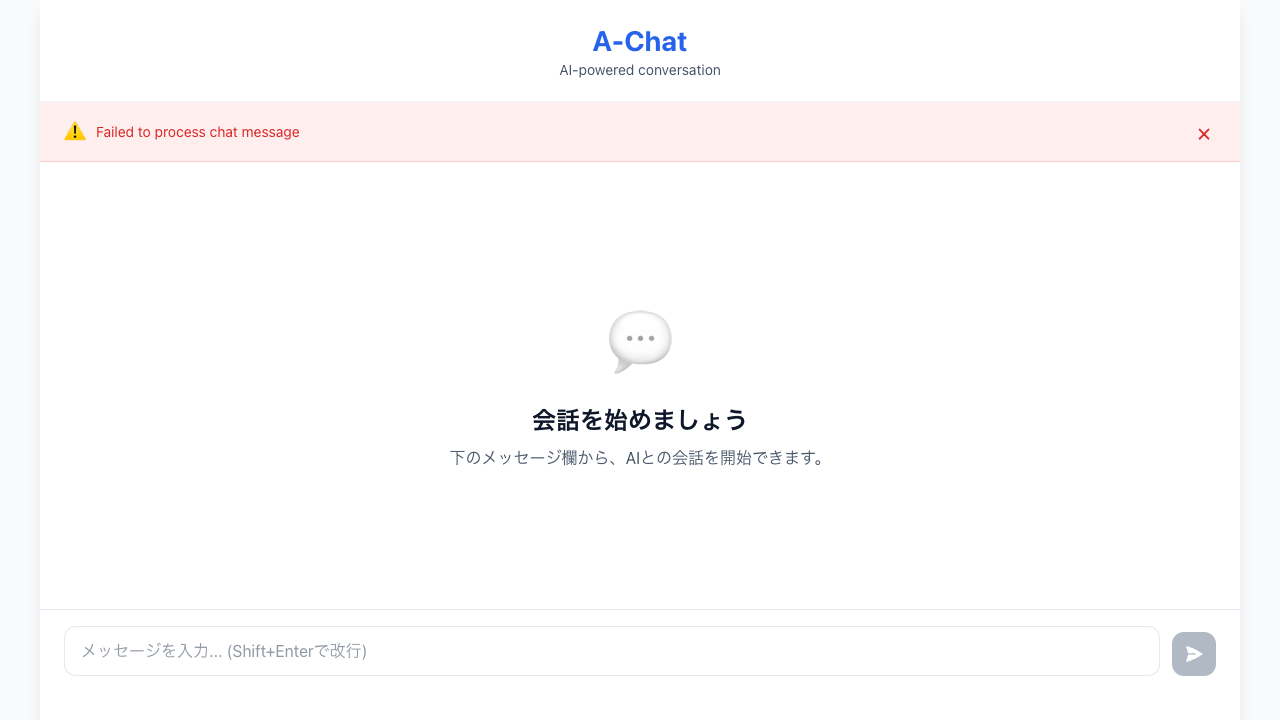
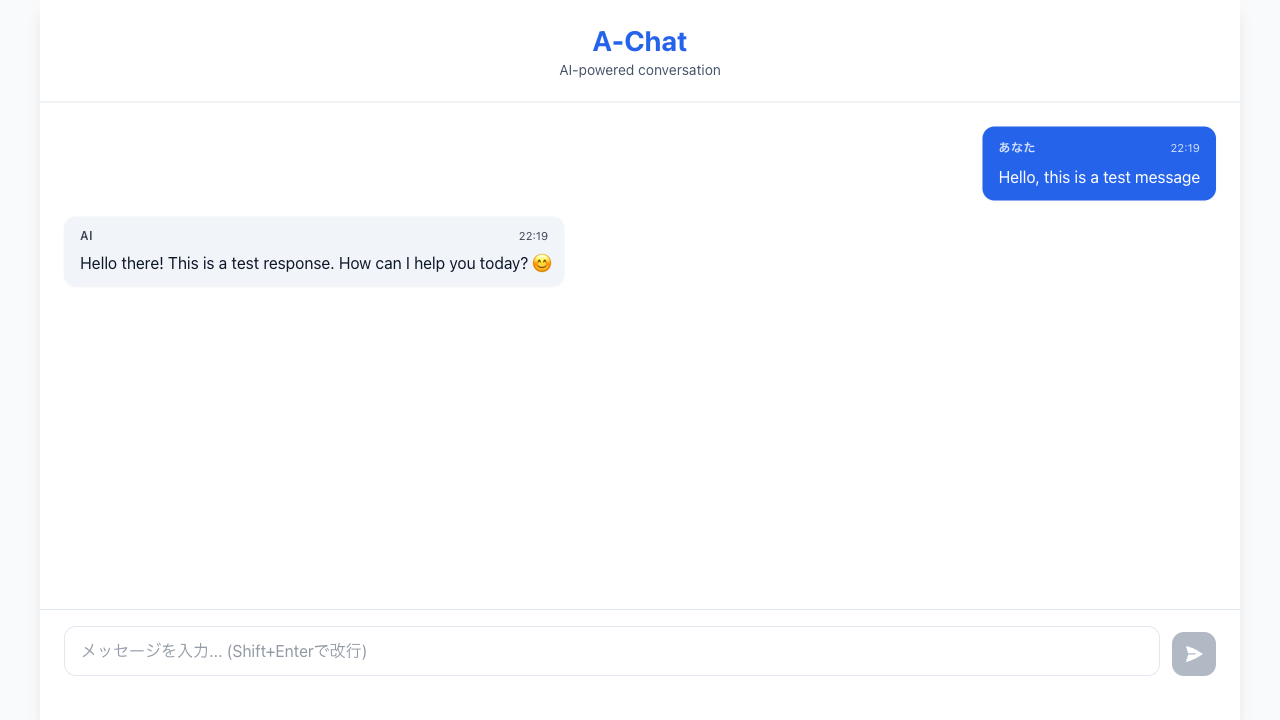
Add test files and final improvements

diff --git a/test-final.js b/test-final.js
@@ -1,0 +1,87 @@
+const { chromium } = require('playwright');
+
+(async () => {
+  const browser = await chromium.launch({ headless: true });
+  const page = await browser.newPage();
+  
+  let testPassed = true;
+  const errors = [];
+  
+  try {
+    console.log('=== Final Chat Test ===');
+    console.log('1. Accessing application...');
+    await page.goto('https://a-chat-173601101972.asia-northeast1.run.app', { waitUntil: 'networkidle', timeout: 30000 });
+    await page.waitForTimeout(3000);
+    
+    // Check for initial error
+    const initialError = await page.locator('[class*="error"]').first().textContent().catch(() => null);
+    if (initialError && initialError.includes('セッション')) {
+      errors.push('Initial session error: ' + initialError);
+      testPassed = false;
+    }
+    
+    console.log('2. Sending test message...');
+    const input = await page.locator('input[type="text"], textarea, [placeholder*="メッセージ"]').first();
+    if (await input.count() === 0) {
+      errors.push('Input field not found');
+      testPassed = false;
+    } else {
+      await input.fill('こんにちは、これはテストです');
+      await page.waitForTimeout(1000);
+      
+      const sendButton = await page.locator('button[type="submit"], button:has-text("送信")').first();
+      if (await sendButton.count() > 0) {
+        await sendButton.click();
+      } else {
+        await input.press('Enter');
+      }
+      
+      console.log('3. Waiting for AI response...');
+      await page.waitForTimeout(10000);
+      
+      // Check for error after sending
+      const errorAfterSend = await page.locator('[class*="error"]').first().textContent().catch(() => null);
+      if (errorAfterSend) {
+        errors.push('Error after sending: ' + errorAfterSend);
+        testPassed = false;
+      }
+      
+      // Check for assistant message
+      const messages = await page.locator('[class*="message"], [class*="Message"]').all();
+      const messageTexts = await Promise.all(messages.map(m => m.textContent().catch(() => '')));
+      const hasAssistantResponse = messageTexts.some(text => 
+        text && !text.includes('こんにちは、これはテストです') && text.length > 20
+      );
+      
+      if (!hasAssistantResponse) {
+        errors.push('No assistant response found');
+        testPassed = false;
+      }
+      
+      console.log('4. Messages found:', messages.length);
+      console.log('5. Has assistant response:', hasAssistantResponse);
+    }
+    
+    await page.screenshot({ path: 'final-test-result.png' });
+    
+    console.log('\n=== Test Results ===');
+    if (testPassed && errors.length === 0) {
+      console.log('✅ ALL TESTS PASSED');
+      console.log('✅ No errors detected');
+      console.log('✅ Chat functionality working correctly');
+    } else {
+      console.log('❌ TESTS FAILED');
+      errors.forEach(e => console.log('  -', e));
+    }
+    
+  } catch (error) {
+    console.error('Test error:', error);
+    await page.screenshot({ path: 'final-test-error.png' });
+    testPassed = false;
+  } finally {
+    await browser.close();
+  }
+  
+  process.exit(testPassed ? 0 : 1);
+})();
+
